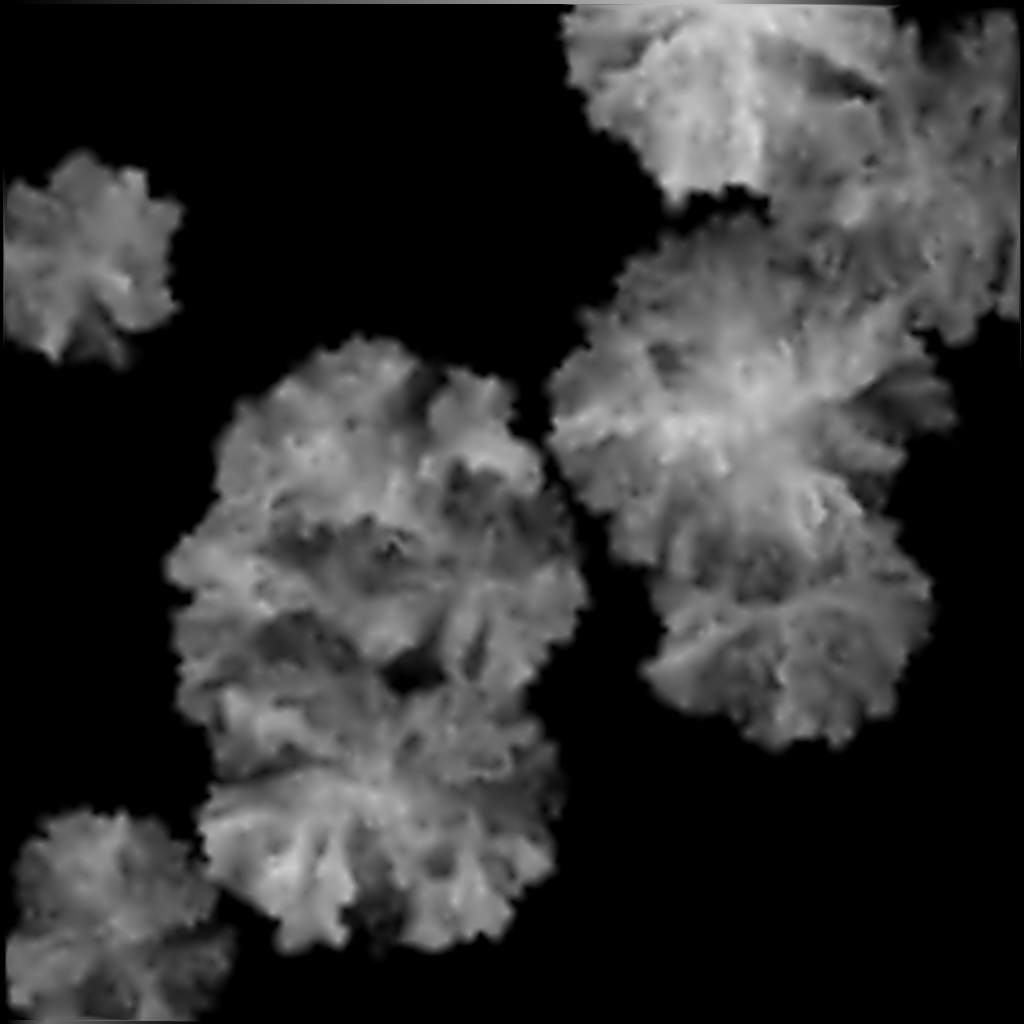
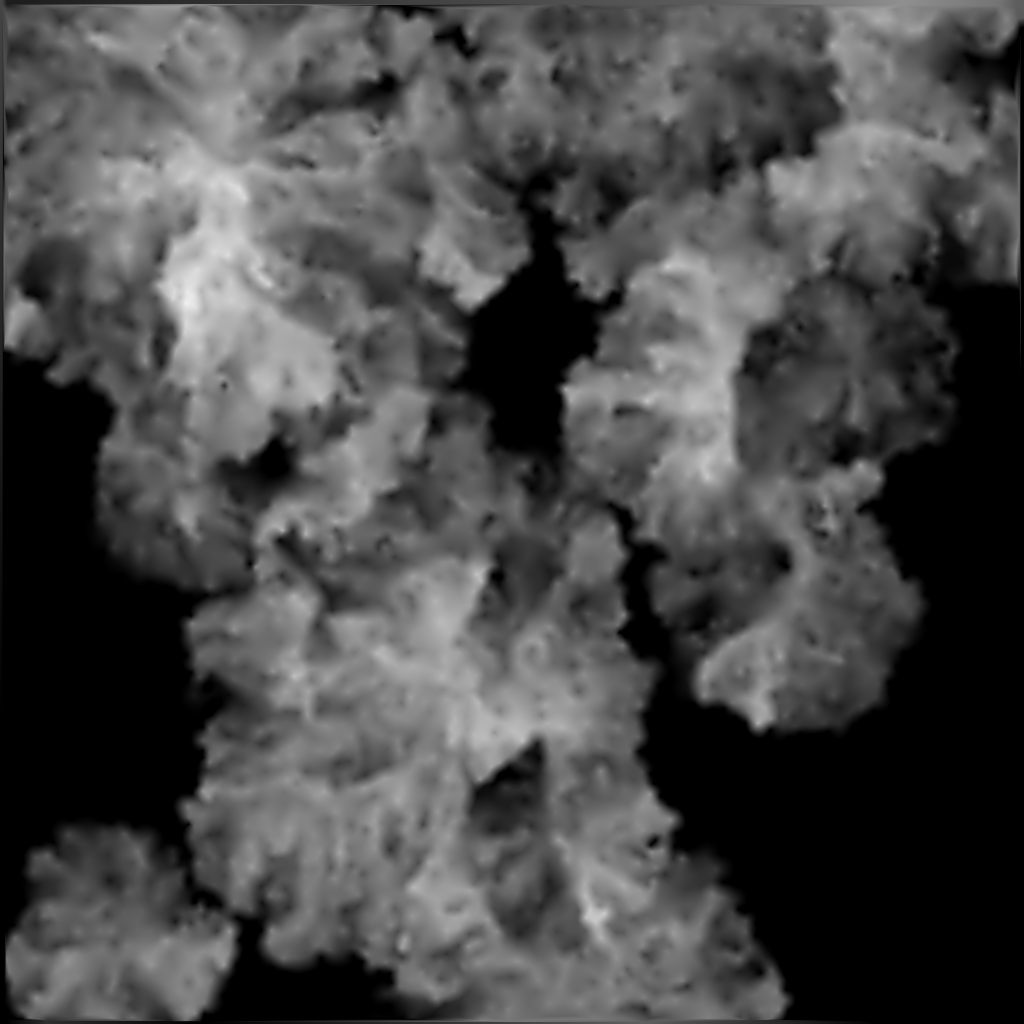
save fixes

diff --git a/src/peak_automata.rs b/src/peak_automata.rs
@@ -226,7 +226,7 @@ mod tests {
 
         // Start at the center
         let center = Point2::from(dims / 2.0);
-        let soft_points = (0..10)
+        let soft_points = (0..20)
             .map(|_| {
                 let height = rng.gen_range(0.3, 0.8);
                 let x = rng.gen_range(-500.0, 500.0);
@@ -357,7 +357,7 @@ mod rbf_interp_tests {
 
         // Start at the center
         let center = Point2::from(dims / 2.0);
-        let soft_points = (0..10)
+        let soft_points = (0..20)
             .map(|_| {
                 let height = rng.gen_range(0.3, 0.8);
                 let x = rng.gen_range(-500.0, 500.0);
@@ -663,7 +663,7 @@ mod spade_tests {
         // Start at the center
         // Start at the center
         let center = Point2::from(dims / 2.0);
-        let soft_points = (0..10)
+        let soft_points = (0..20)
             .map(|_| {
                 let height = rng.gen_range(0.3, 0.8);
                 let x = rng.gen_range(-500.0, 500.0);
@@ -703,10 +703,9 @@ mod spade_tests {
                 region
                     .borders
                     .iter()
-                    .filter_map(|idx| {
+                    .map(|idx| {
                         let node = border_graph.node_weight(*idx).expect("Bad graphs");
-
-                        Some(Point2::<i32>::new(node.pos.x as i32, node.pos.y as i32))
+                        Point2::<i32>::new(node.pos.x as i32, node.pos.y as i32)
                     })
                     .collect()
             },

diff --git a/src/simple_wind.rs b/src/simple_wind.rs
@@ -100,7 +100,7 @@ pub mod tests {
         use crate::peak_automata::{node_for_coordinate, PeakNode, Settings};
 
         let center = Point2::from(dims / 2.0);
-        let soft_points = (0..10)
+        let soft_points = (0..20)
             .map(|_| {
                 let height = rng.gen_range(0.3, 0.8);
                 let x = rng.gen_range(-500.0, 500.0);
